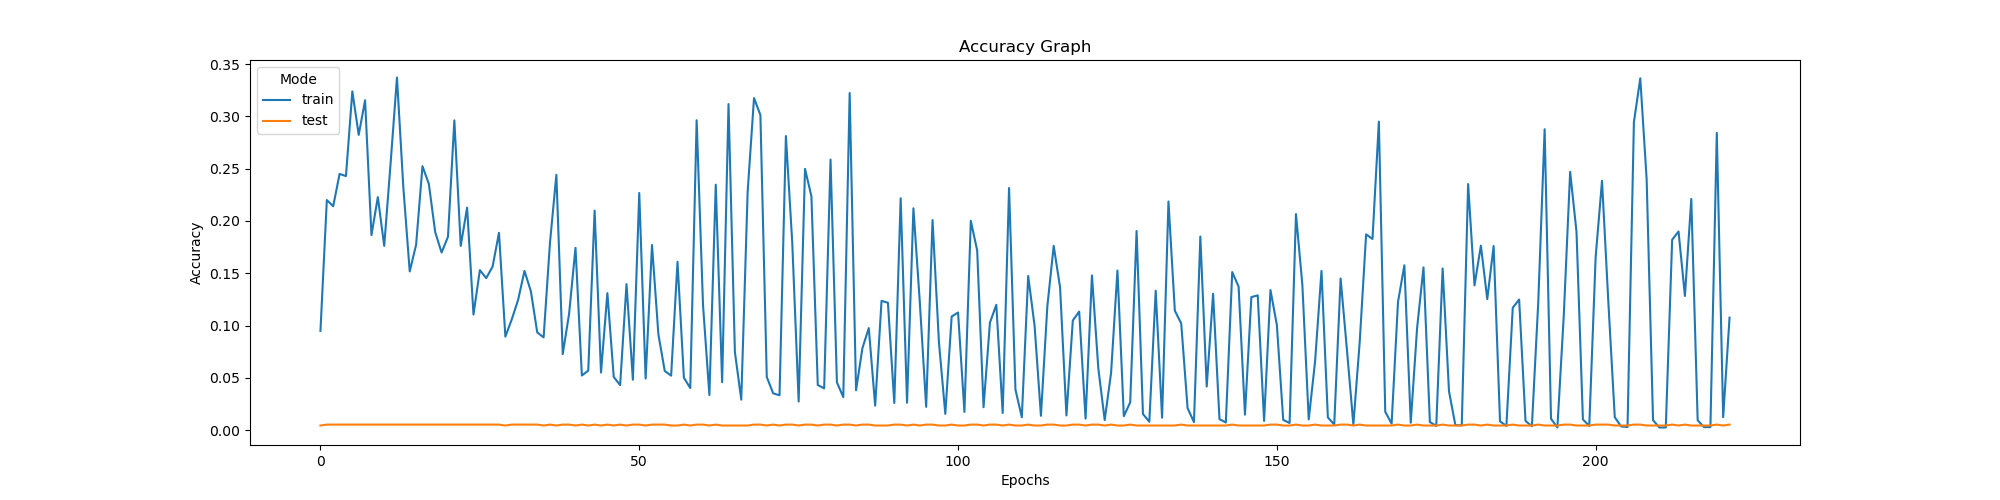
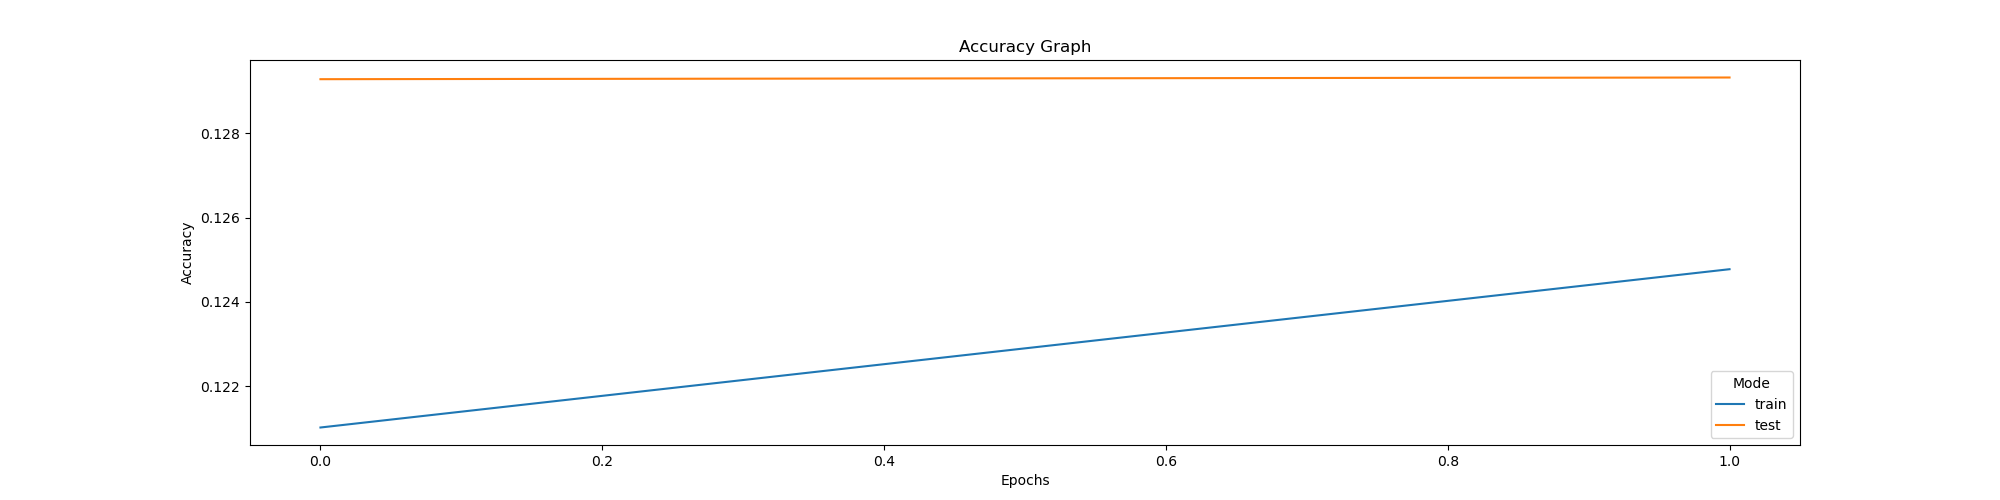
changed dataset

diff --git a/train.py b/train.py
@@ -39,8 +39,8 @@ CRITERION = nn.CrossEntropyLoss()
 OPTIMIZER = torch.optim.Adam(MODEL.parameters(), lr=cfg.LEARNING_RATE)
 # SCHEDULER = torch.optim.lr_scheduler.StepLR(OPTIMIZER, step_size=cfg.SCHEDULER_STEP_SIZE, gamma=cfg.SCHEDULER_GAMMA)
 
-TRAIN_DATALOADER = LoadDeeplakeDataset(token=cred.ACTIVELOOP_TOKEN, deeplake_ds_name="hub://activeloop/stanford-cars-train", batch_size=cfg.BATCH_SIZE, shuffle=cfg.SHUFFLE)()
-TEST_DATALOADER = LoadDeeplakeDataset(token=cred.ACTIVELOOP_TOKEN, deeplake_ds_name="hub://activeloop/stanford-cars-test", batch_size=cfg.BATCH_SIZE, shuffle=False)()
+TRAIN_DATALOADER = LoadDeeplakeDataset(token=cred.ACTIVELOOP_TOKEN, deeplake_ds_name="hub://activeloop/animal10n-train", batch_size=cfg.BATCH_SIZE, shuffle=cfg.SHUFFLE)()
+TEST_DATALOADER = LoadDeeplakeDataset(token=cred.ACTIVELOOP_TOKEN, deeplake_ds_name="hub://activeloop/animal10n-test", batch_size=cfg.BATCH_SIZE, shuffle=False)()
 
 summary(MODEL, (cfg.IMAGE_CHANNEL, cfg.IMAGE_HEIGHT, cfg.IMAGE_WIDTH))
 
@@ -86,17 +86,18 @@ def main():
         test_epoch_accuracy = 0
         test_epoch_loss = 0
 
-        MODEL.eval() #change to eval mode for testing. 
-        for idx, data in enumerate(TEST_DATALOADER):
+        MODEL.eval() #change to eval mode for testing.
+        with torch.no_grad():
+            for idx, data in enumerate(TEST_DATALOADER):
 
-            test_X,test_Y = data['images'].to(DEVICE), data['labels'].to(DEVICE)
+                test_X,test_Y = data['images'].to(DEVICE), data['labels'].to(DEVICE)
 
-            test_predictions = MODEL(test_X)
-            test_batch_loss = CRITERION(test_predictions, test_Y.reshape(-1))
+                test_predictions = MODEL(test_X)
+                test_batch_loss = CRITERION(test_predictions, test_Y.reshape(-1))
 
-            test_batch_accuracy = utils.calculate_accuracy(batch_predictions=test_predictions.detach(), batch_targets=test_Y.detach())
-            test_epoch_accuracy += test_batch_accuracy/len(TEST_DATALOADER)
-            test_epoch_loss += test_batch_loss.item()/len(TEST_DATALOADER)
+                test_batch_accuracy = utils.calculate_accuracy(batch_predictions=test_predictions.detach(), batch_targets=test_Y.detach())
+                test_epoch_accuracy += test_batch_accuracy/len(TEST_DATALOADER)
+                test_epoch_loss += test_batch_loss.item()/len(TEST_DATALOADER)
 
 
 

diff --git a/load_dataset.py b/load_dataset.py
@@ -31,7 +31,7 @@ class LoadDeeplakeDataset:
         '''
         return {
                 'images': torch.stack([x['images'] for x in batch_data]),
-                'labels': torch.stack([torch.from_numpy(x['car_models']) for x in batch_data])
+                'labels': torch.stack([torch.from_numpy(x['labels']) for x in batch_data])
             }
 
     @staticmethod
@@ -59,9 +59,9 @@ class LoadDeeplakeDataset:
 
         dataloader = None
         if self.mode == 'train':
-            dataloader = places205_dataset.dataloader().transform({'images':self.training_transformation(), 'car_models':None}).batch(self.batch_size).shuffle(self.shuffle).pytorch(collate_fn=self.collate_fn, decode_method={'images':'pil'})
+            dataloader = places205_dataset.dataloader().transform({'images':self.training_transformation(), 'labels':None}).batch(self.batch_size).shuffle(self.shuffle).pytorch(collate_fn=self.collate_fn, decode_method={'images':'pil'})
         else:
-            dataloader = places205_dataset.dataloader().transform({'images':self.testing_transformation(), 'car_models':None}).batch(self.batch_size).shuffle(self.shuffle).pytorch(collate_fn=self.collate_fn, decode_method={'images':'pil'})
+            dataloader = places205_dataset.dataloader().transform({'images':self.testing_transformation(), 'labels':None}).batch(self.batch_size).shuffle(self.shuffle).pytorch(collate_fn=self.collate_fn, decode_method={'images':'pil'})
 
         return dataloader
 

diff --git a/cfg.py b/cfg.py
@@ -7,16 +7,16 @@ MODEL_SAVE_FOLDER='./artifacts/'
 GRAPH_SAVE_FOLDER='./graphs/'
 
 #DATASET CONFIGURATIONS
-BATCH_SIZE=2
+BATCH_SIZE=5
 IMAGE_WIDTH=224
 IMAGE_HEIGHT=224
 IMAGE_CHANNEL=1
-SHUFFLE=False
+SHUFFLE=True
 PATCH_SIZE=16
 
 #MODEL CONFIGURATIONS
 TRANSFORMER_NETWORK_DEPTH=10
-NUM_CLASSES=205
+NUM_CLASSES=10
 PROJECTION_DIM_KEYS=512
 PROJECTION_DIM_VALUES=1024
 NUM_HEADS=8
